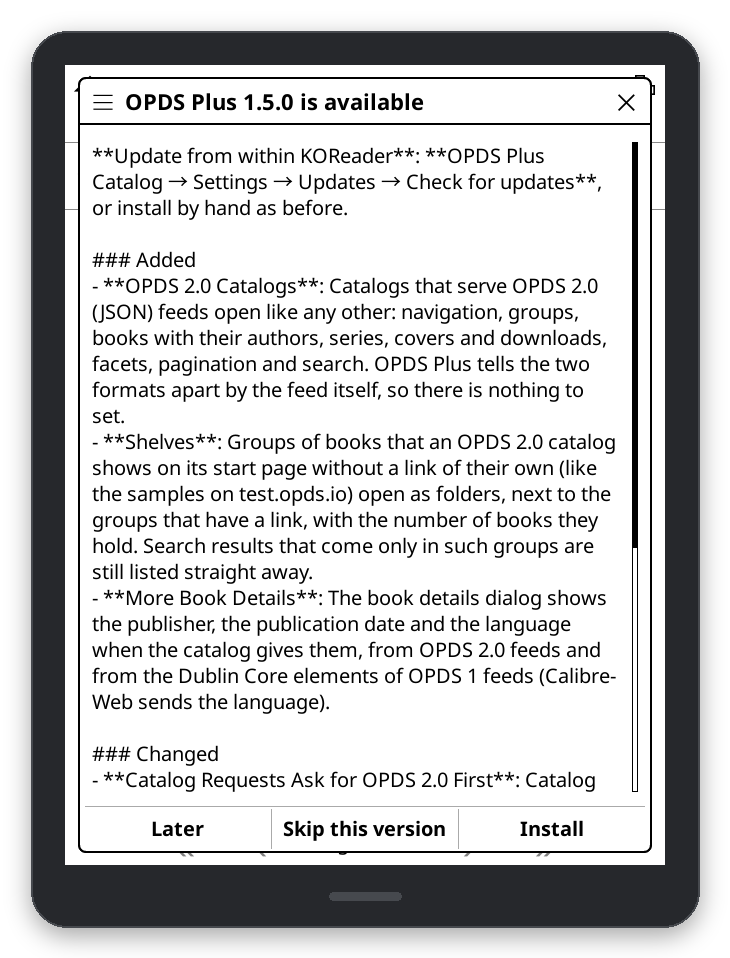
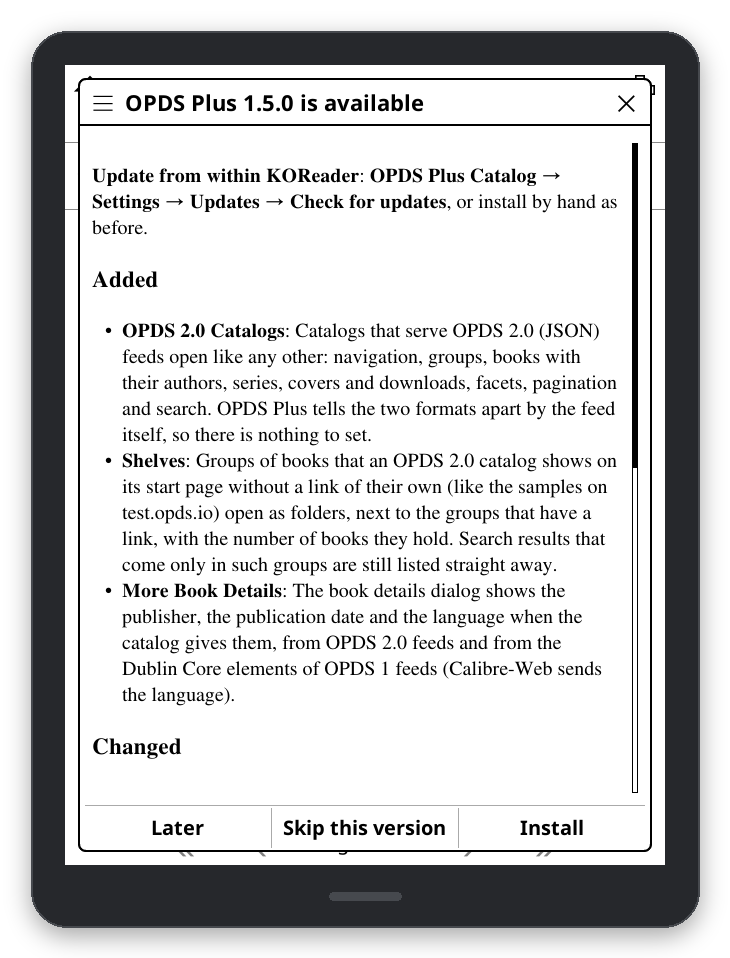
feat: format update release notes
Use native Markdown viewing when available and a v2025.10 HTML
compatibility dialog otherwise. Keep update actions and text style,
and offer plain text explicitly when rendering fails.

Exercise both paths with native long-note, keyboard and error checks.
Verify resource isolation, update and rollback, and refresh the guide
and showcase screenshot.

diff --git a/docs/wiki/Updating.md b/docs/wiki/Updating.md
@@ -14,7 +14,18 @@ The update is downloaded from GitHub, its checksum is compared with the one publ
 every file in it is checked before anything is changed. The installed version is then swapped for the new one,
 and kept next to it as `opds_plus.koplugin.bak`.
 
-![An update is available](https://raw.githubusercontent.com/greywolf1499/opds_plus.koplugin/main/.github/screenshots/update_available.png)
+### Release notes in development builds
+
+Notes are formatted with headings, lists and emphasis. Current KOReader uses its native Markdown viewer;
+KOReader v2025.10 uses a compatibility viewer built from its existing Markdown converter and HTML scroller.
+The compatibility viewer keeps the general text viewer's font size and text style.
+Use the page keys or touch scrolling to read long notes. **Install**, **Skip this version** and **Later**
+are unchanged. Links and remote images in notes are not opened or fetched.
+
+If formatting fails, **View as plain text** opens the complete original notes with the same update controls.
+Cancelling that prompt does not install or skip the release.
+
+![Formatted notes in a development build](https://raw.githubusercontent.com/greywolf1499/opds_plus.koplugin/main/.github/screenshots/update_available.png)
 
 ## Weekly check
 
@@ -53,6 +64,7 @@ describes how the updater checks connections and archives.
 | GitHub answered with an error | Try again later. GitHub limits how often a device may ask. |
 | The plugins folder can't be written to / not enough free space | Free some space, or install by hand. |
 | This KOReader can't open zip archives | Install the update by hand from the release page. |
+| The release notes could not be formatted | Choose **View as plain text** to read the original notes and keep the update controls. |
 | The downloaded update did not match its checksum | Nothing was changed. Try again; if it keeps failing, install by hand. |
 
 In every case the installed version is kept.

diff --git a/README.md b/README.md
@@ -78,7 +78,7 @@
 |                       **Book Details**                        |                      **Updates**                       |
 | :-----------------------------------------------------------: | :----------------------------------------------------: |
 |    ![Book Details](.github/screenshots/book_details.png)     | ![Update Available](.github/screenshots/update_available.png) |
-|         *Author, series, language, formats and more*          |        *Release notes, then install in one tap*        |
+|         *Author, series, language, formats and more*          |        *Formatted notes (development builds)*        |
 
 |                     **OPDS 2.0 Shelves**                      |                   **Facets**                    |
 | :-----------------------------------------------------------: | :---------------------------------------------: |
@@ -136,6 +136,11 @@ updating, and setting up Calibre-Web, Kavita and Komga.
 ### Updating (New in 1.4.0)
 
 From 1.4.0 on, OPDS Plus updates itself: open **OPDS Plus Catalog → Settings → Updates** and tap **Check for updates**. It shows what is new and installs it when you tap **Install**; restart KOReader when asked. **Roll back to previous version** puts the version before the update back. Versions before 1.4.0 can't update themselves, so install 1.4.0 by hand once, as above.
+
+Development builds format release notes with headings, lists and emphasis, including on KOReader v2025.10.
+Use page keys or touch scrolling for long notes. **Install**, **Skip this version** and **Later** work as before.
+If formatting fails, choose **View as plain text** to read the original notes. Links and remote images in notes
+are not opened or fetched.
 
 A plugin folder that is a link, or has a `.git` folder in it (Method 2), is a development install: update it with `git pull` instead.
 

diff --git a/tools/e2e/README.md b/tools/e2e/README.md
@@ -192,6 +192,20 @@ tools/e2e/ota/real_dryrun.sh      # against the real latest release
 The updater moves and deletes plugin directories, so these kits install the built release archive as a plain
 copy; the repository is never linked into their `KO_HOME`.
 
+The mock run also exercises formatted release notes with the native Markdown viewer and the compatibility
+path (native Markdown support disabled for the test). It extracts actual rendered text, checks the end of long
+notes, sends page/D-pad/Back key events, and verifies all three update actions. Injected rendering failures
+must offer the complete original text, not an empty viewer. The request log must contain no note-image or
+link requests. `OTA_E2E_KEEP=1` keeps native, compatibility and plain-text screenshots in the printed work dir.
+For the small-screen check:
+
+```bash
+EMULATE_READER_W=600 EMULATE_READER_H=800 EMULATE_READER_DPI=167 tools/e2e/ota/run.sh
+```
+
+The compatibility path is run on the installed emulator; its production APIs are also checked against
+v2025.10 source. This does not claim a physical-device run or an entire v2025.10 binary/runtime test.
+
 ## opds
 
 ```bash

diff --git a/CHANGELOG.md b/CHANGELOG.md
@@ -13,6 +13,7 @@ The format is based on [Keep a Changelog](https://keepachangelog.com/en/1.0.0/) 
 
 ### Changed
 
+- **Formatted Release Notes**: Render update notes with KOReader's native Markdown viewer, or its existing converter and HTML scroller on v2025.10. Preserve Install / Skip / Later, keyboard scrolling and complete long notes. If rendering fails, explain it and offer the original plain text; do not fetch remote images or open links in notes.
 - **Cancellable Catalog Loading**: Fetch, parse and map catalogs in the background while keeping the current page visible. Tap or press a key to cancel without changing the listing or history. If background processes are unavailable, ask before loading in the foreground, where input will pause. Catalog caching, search and sequential feed-page fetching are preserved.
 - **Screenshots**: The README shows the book details, the update dialog and an OPDS 2.0 catalog's shelves and facets, all taken from a mock catalog of public-domain classics.
 - **Editor Diagnostics**: Add a reproducible LuaLS check with accurate Busted assertions and KOReader module resolution, without disabling production warnings.
